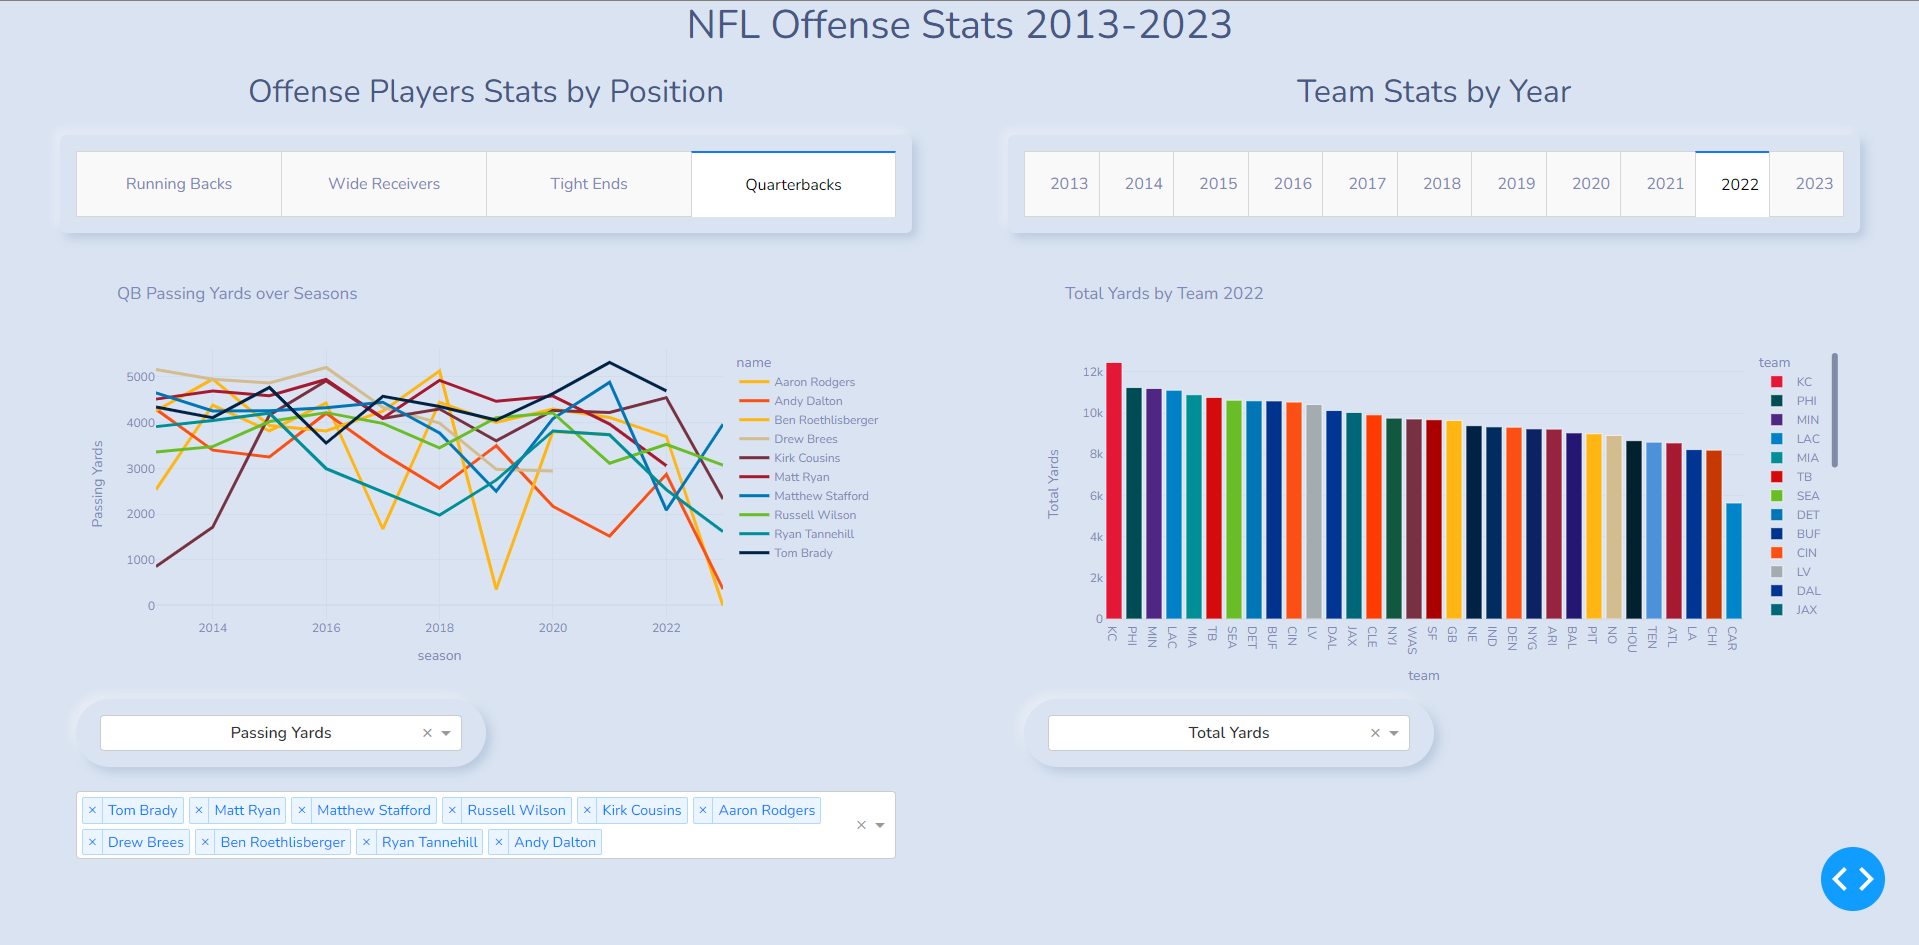
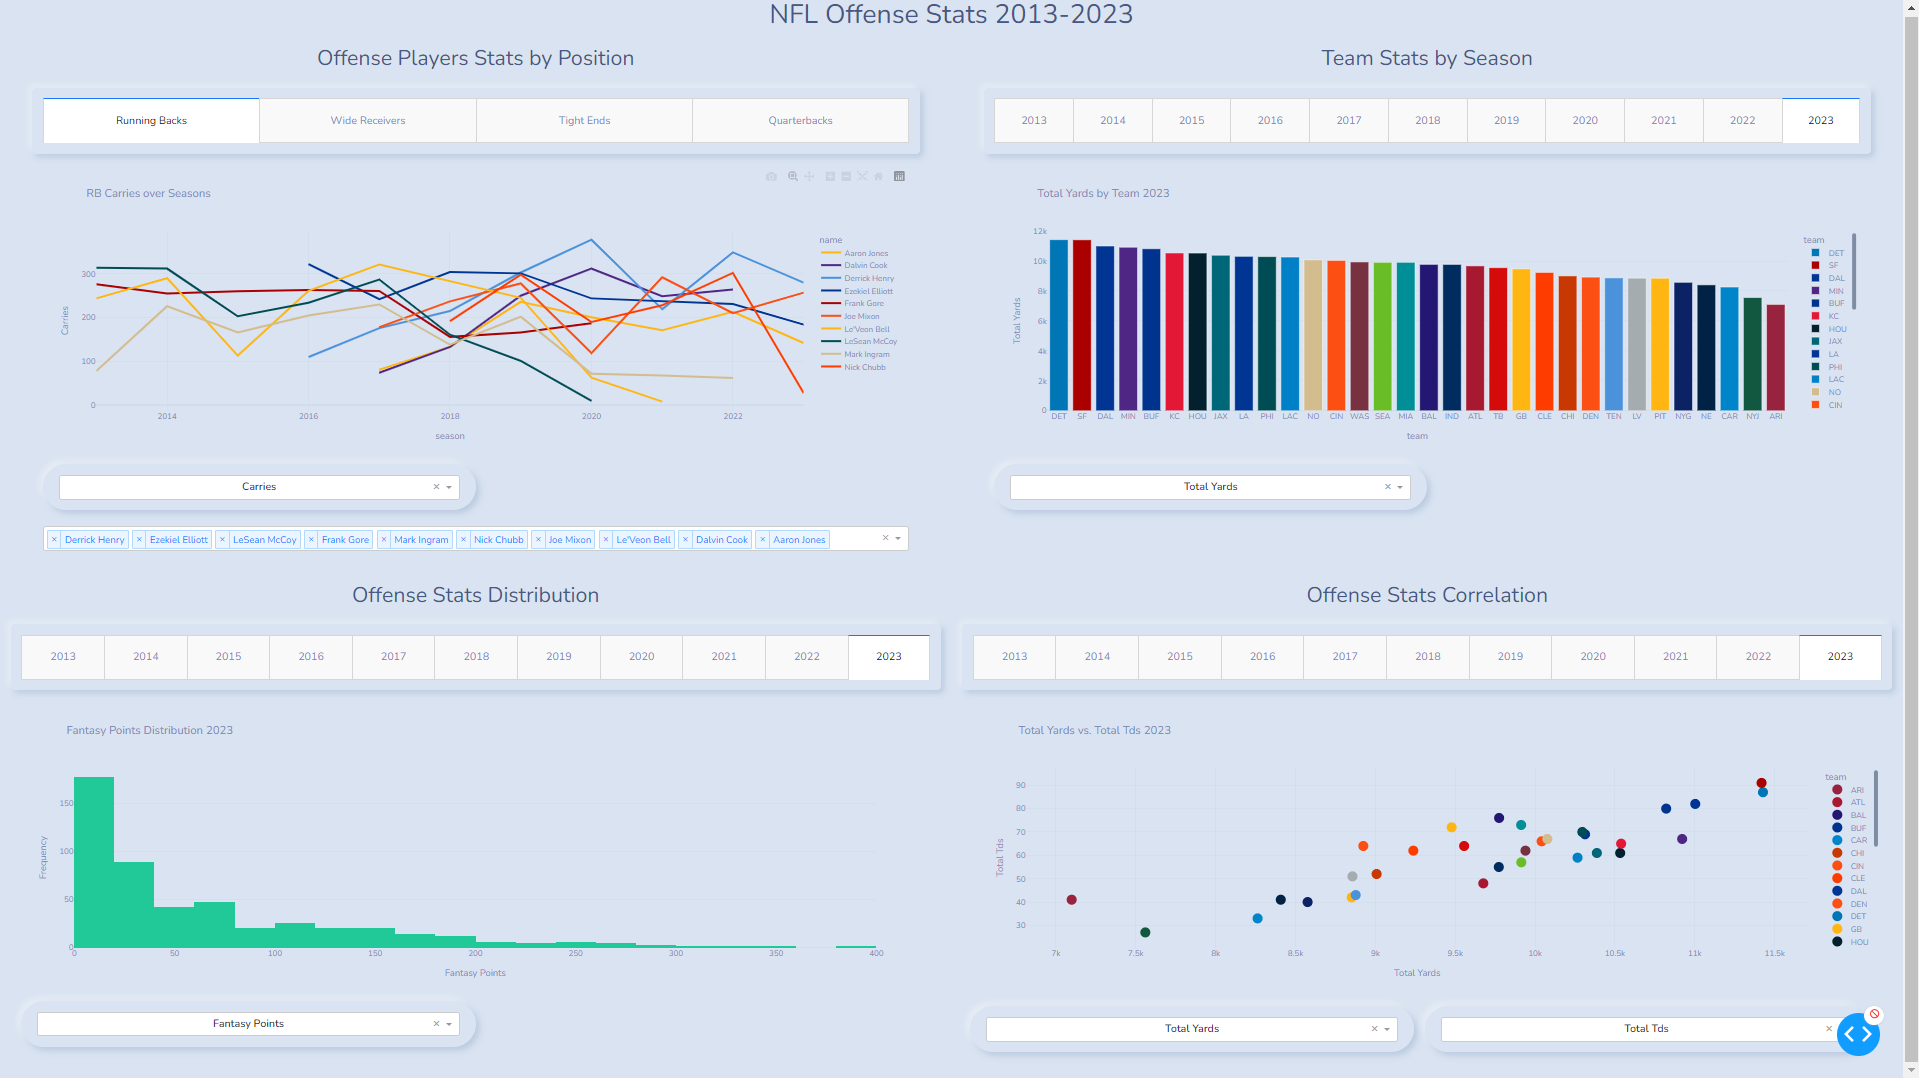
Update README.md with new charts

diff --git a/README.md b/README.md
@@ -9,6 +9,8 @@ This project is a Dash application that visualizes NFL offense statistics. It in
 - **Player Stats by Position**: View statistics for Running Backs, Wide Receivers, Tight Ends, and Quarterbacks.
 - **Player Selection**: Filter and visualize statistics for any player.
 - **Team Stats by Year**: Analyze team performance metrics over different seasons.
+- **Offense Stats Distribution Histogram**: Visualize the distribution of various offensive stats with a customizable histogram.
+- **Compare Offensive Stats Scatter Plot**: Compare two different offensive stats across teams with a dynamic scatter plot.
 - **Interactive Visualizations**: Use dropdowns and tabs to customize the data displayed in charts.
 
 ## Installation
